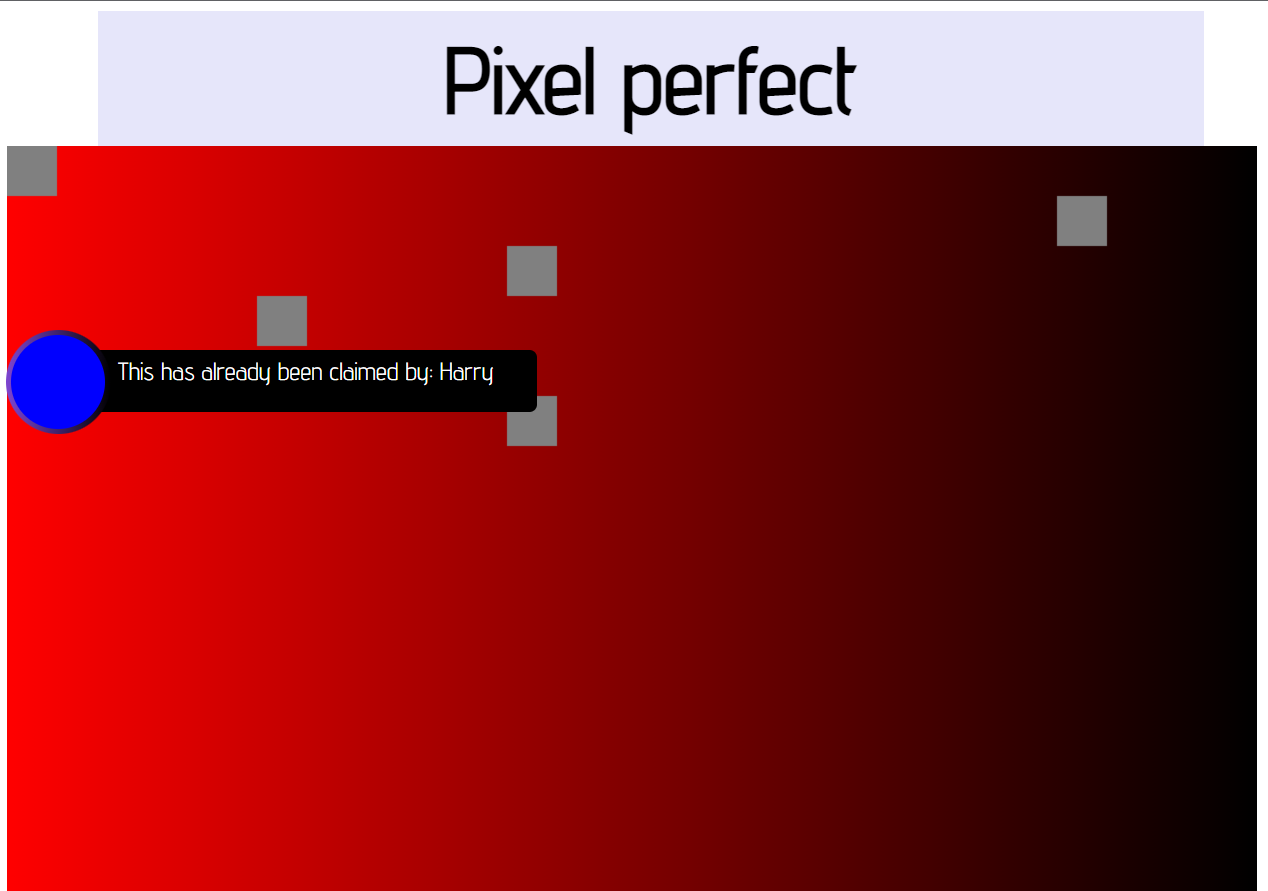
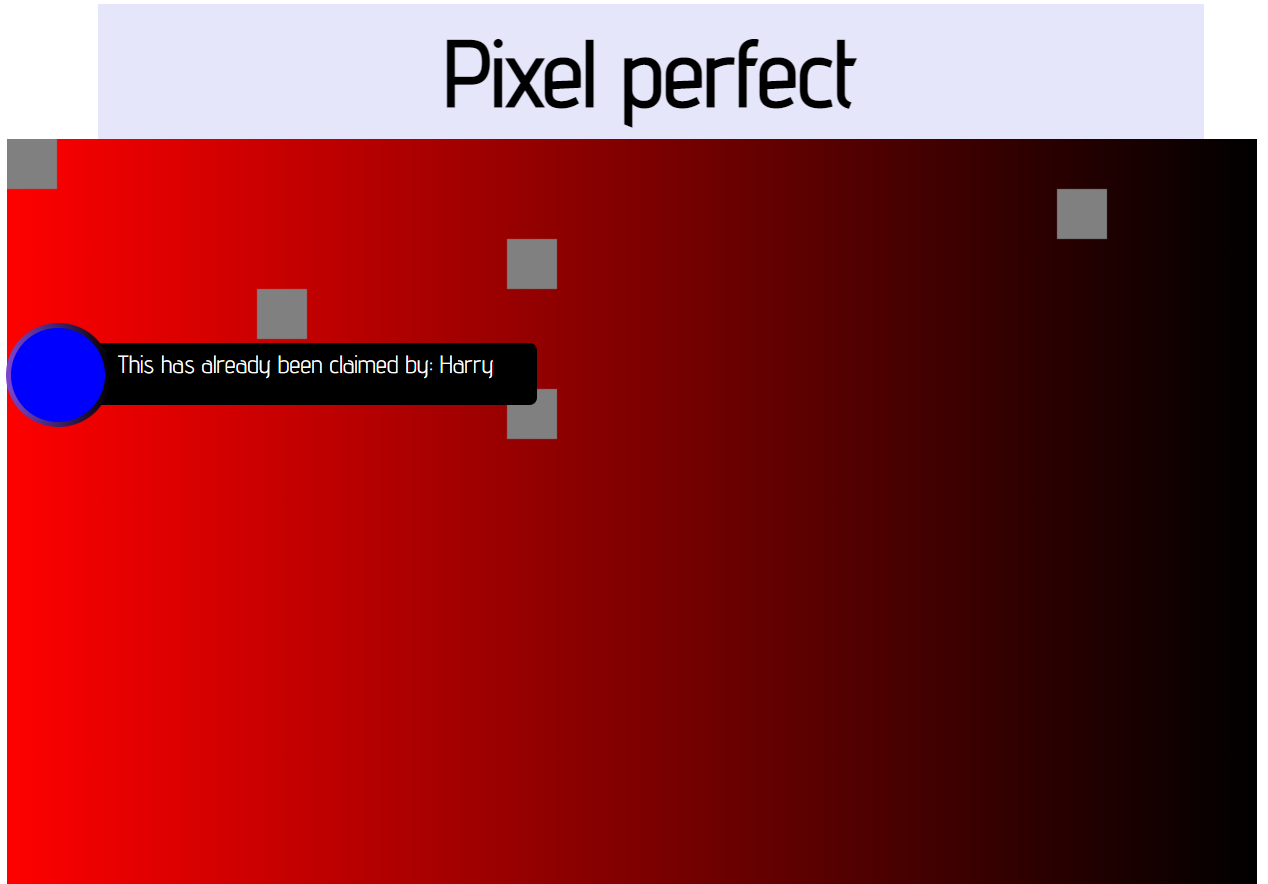
finishing portfolio

diff --git a/templates/work.html b/templates/work.html
@@ -9,9 +9,9 @@
 {% block content %}
 <div class="project light-gray-section" id="first-section">
     <div class="project-info project-left">
-        <h3 class="project-title">Pixel picker</h3>
+        <h3 class="project-title">Pixel perfect</h3>
         <p class="project-description">
-            Pixel picker is a web game where you try your luck at picking the winning pixel. To play you have to
+            Pixel perfect is a web game where you try your luck at picking the winning pixel. To play you have to
             create an account then choose a pixel. There is only a limited amount so get in there quick before
             someone else snaps up your lucky number! At the end of the month a pixel is chosen at random and
             the person who owns that pixel wins.

diff --git a/static/styles/work.css b/static/styles/work.css
@@ -6,6 +6,8 @@
     justify-content: space-evenly;
     align-content: center;
     flex-direction: row;
+    border-top: 1px black solid;
+    border-left: 1px black solid;
 }
 
 .project-description{
@@ -22,6 +24,7 @@ max-height: -webkit-fill-available;
     justify-content: space-evenly;
     align-content: center;
     flex-direction: row;
+    width: 100vw;
 }
 
 .lightgray-section{
